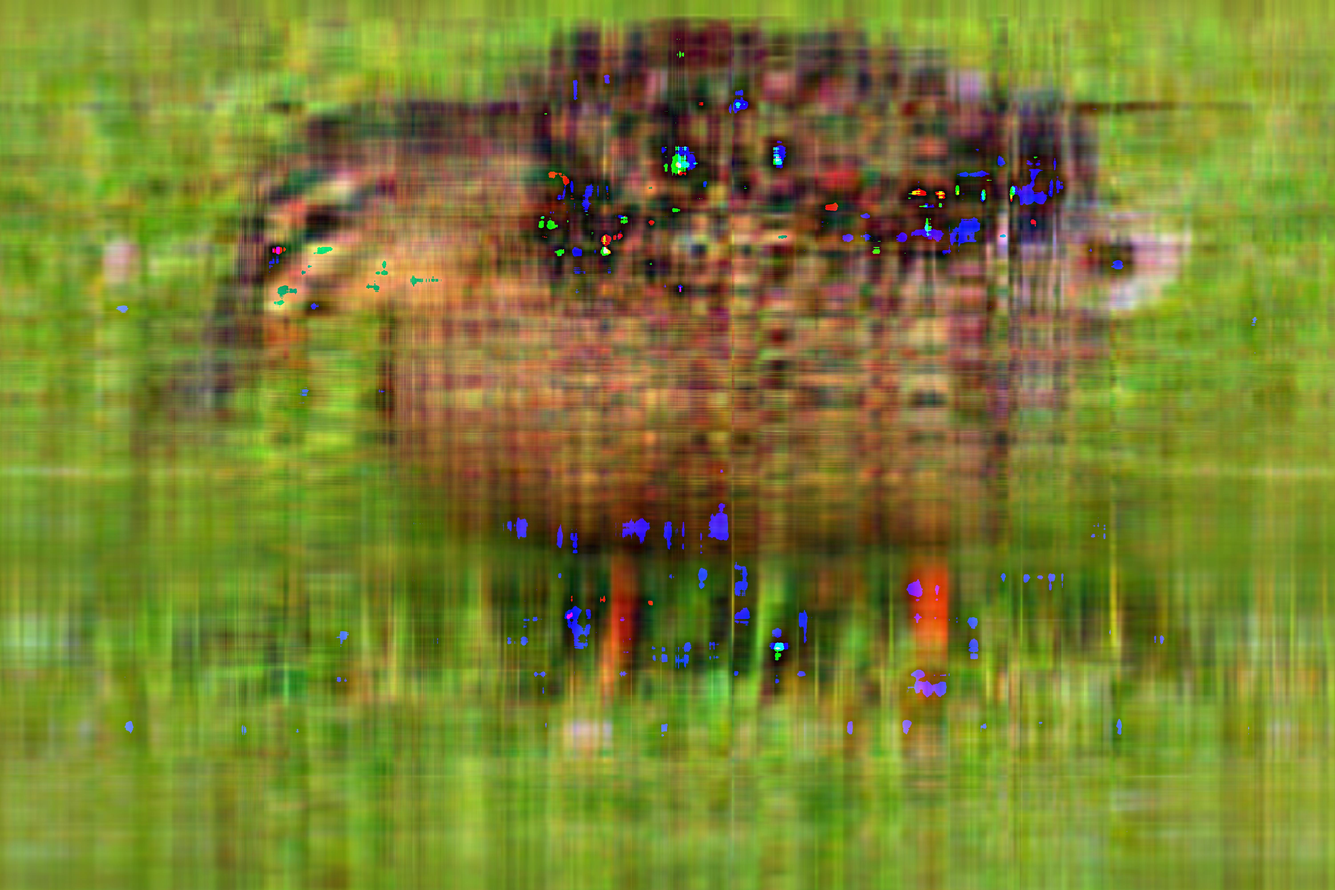
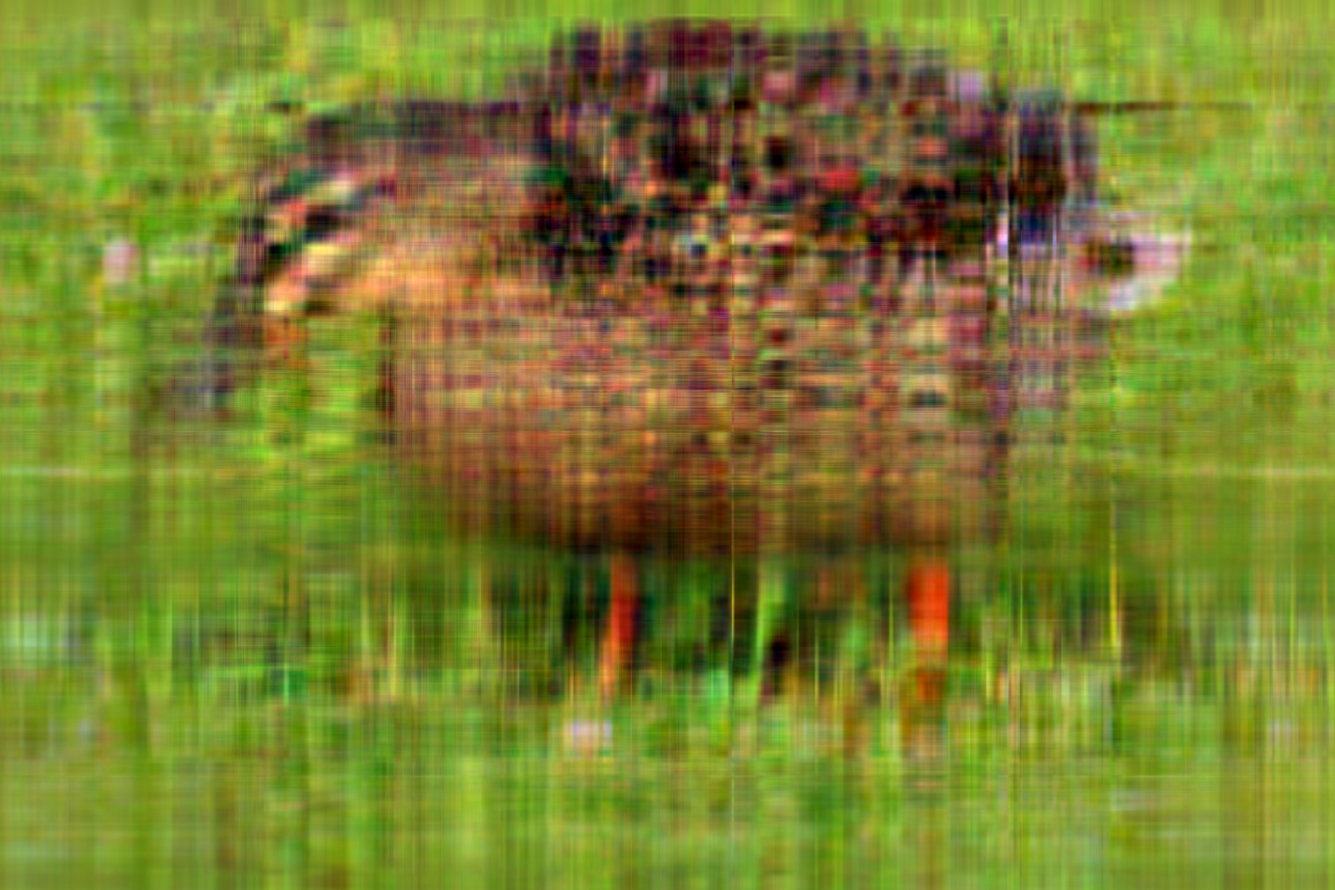
Correção na Compressão de Imagens

diff --git a/aplicacoes/svd.md b/aplicacoes/svd.md
@@ -9,7 +9,7 @@ Um dos principais exemplos de como matrizes podem ser aplicadas no meio computac
 
 Um *pixel* é a unidade fundamental que compõe uma imagem, ele é basicamente uma cor sólida. A composição de milhares de pixels (por exemplo, uma imagem de resolução 800 x 600 contém $800\cdot 600=480000$ pixels) resulta na imagem como a enxergamos. A cor de um pixel é armazenada como um conjunto de números, que representam as escalas de cada espectro principal de cor e luz, que unidos formam a cor desejada - logo, na verdade uma imagem é uma matriz tridimensional, pois cada pixel que a compõe armazena mais de um valor. 
 
-O *RGB* é um dos sistemas de cores mais conhecidos e utilizados, cuja sigla vem do inglês *Red* (Vermelho), *Green* (Verde) e *Blue* (Azul), uma vez que todas as outras cores (ou pelo menos a maioria) podem ser obtidas através da adição dessas três. Se pensarmos na representação matricial de uma imagem de resolução $m\times n$ no formato RGB, o que teremos serão 3 matrizes de dimensão $m\times n$, uma para cada uma das cores base.
+O *RGB* é um dos sistemas de cores mais conhecidos e utilizados, cuja sigla vem do inglês *Red* (Vermelho), *Green* (Verde) e *Blue* (Azul), uma vez que todas as outras cores (ou pelo menos a maioria) podem ser obtidas através da adição dessas três. No padrão RGB, cada pixel contém valores entre 0 e 255 para cada uma das três cores base, representando as suas respectivas intensidades. Por exemplo, um pixel contendo os valores (255, 0, 0) - para vermelho, verde e azul, respectivamente - terá cor vermelha sólida, enquanto um com (255, 255, 0) terá cor amarela (vermelho mais verde), (0, 0, 0) terá cor preta e (255, 255, 255) terá cor branca. Então, na representação matricial de uma imagem de resolução $m\times n$ no formato RGB, o que teremos serão 3 matrizes de dimensão $m\times n$, uma para cada uma das cores base, com as entradas variando de 0 a 255.
 
 Como vimos no [Teorema de Eckart-Young](#teo-eckart-young), é possível aproximar uma matriz por outra de mesma dimensão e posto menor, descartando (anulando) os valores singulares de índice maior ao do posto escolhido, na sua decomposição SVD. Então, quais seriam os efeitos de aplicar essa técnica às matrizes RGB de uma imagem? Acontece que, na verdade, esse é um método de *compressão de imagens* válido, que é aplicado em algumas situações no meio digital.
 
@@ -68,7 +68,12 @@ R_approx = Ukr @ np.diag(Skr) @ Vtkr
 G_approx = Ukg @ np.diag(Skg) @ Vtkg
 B_approx = Ukb @ np.diag(Skb) @ Vtkb
 
-# 3. Reconstrói a imagem a partir das novas matrizes RGB 
+# Garante que as entradas das novas matrizes estejam entre 0 e 255 
+R_approx = np.clip(R_approx, 0, 255).astype(np.uint8)
+G_approx = np.clip(G_approx, 0, 255).astype(np.uint8)
+B_approx = np.clip(B_approx, 0, 255).astype(np.uint8)
+
+# Reconstrói a imagem a partir das novas matrizes RGB 
 imagem_reconstruida = np.stack((R_approx, G_approx, B_approx), axis=-1).astype(np.uint8)
 Image.fromarray(imagem_reconstruida).save("reconstruida.jpg")
 
@@ -85,6 +90,8 @@ A separação das matrizes RGB e o truncamento são realizados aproveitando-se d
 Esse processo de truncamento é equivalente a considerar os valores singulares de índice maior que $k$ na matriz $\Sigma$ iguais a zero, conforme descrito na [definição da matriz $A_{k}$](#def-matrizak-eckart-young) e no [Teorema de Eckart-Young](#teo-eckart-young).
 
 Logo, as matrizes RGB aproximadas, obtidas nos produtos entre suas respectivas matrizes SVD truncadas (realizado no python com o operador "@", de produto matricial. O método *np.diag* é utilizado para transformar o vetor truncado Sk na matriz diagonal truncada $\Sigma_{k}$), preservam a dimensão de $m\times n$ das matrizes originais ($m\times k\times k\times k\times k \times n=m\times n$). Isso implica que a imagem final comprimida terá resolução (dimensão) igual a da imagem original, logo, o processo realiza uma **redução de complexidade** da imagem, e não uma redução de resolução (este último que é comum em outros métodos que visam reduzir o tamanho de uma imagem).
+
+O uso da função *np.clip*, nas linhas 38-40, é importante para garantir que as entradas das matrizes resultantes dos produtos estejam no intervalo permitido pelo padrão RGB, entre 0 e 255. A função substitui por 0 entradas com valor abaixo de 0, assim como por 255 entradas acima de 255, preservando as que estão dentro do intervalo. A presença de entradas fora desse intervalo resultaria em pixels "defeituosos" no resultado final, com cores destoantes da imagem original.
 
 ### Testes e resultados
 
@@ -113,27 +120,27 @@ Imagem comprimida com $k$ = 10. Tamanho: 1,2MB (Compressão de 83,78%).
 :::{figure} 50.jpg
 :align: center
 
-Imagem comprimida com $k$ = 50. Tamanho: 2,2MB (Compressão de 70,27%).
+Imagem comprimida com $k$ = 50. Tamanho: 1,8MB (Compressão de 75,67%).
 :::
 
 :::{figure} 150.jpg
 :align: center
 
-Imagem comprimida com $k$ = 150. Tamanho: 3,1MB (Compressão de 58,10%).
+Imagem comprimida com $k$ = 150. Tamanho: 2,4MB (Compressão de 67,56%).
 :::
 
 :::{figure} 500.jpg
 :align: center
 
-Imagem comprimida com $k$ = 500. Tamanho: 3,8MB (Compressão de 48,64%).
+Imagem comprimida com $k$ = 500. Tamanho: 2,8MB (Compressão de 62,16%).
 :::
 
 :::{figure} 1000.jpg
 :align: center
 
-Imagem comprimida com $k$ = 1000. Tamanho: 3,8MB (Compressão de 48,64%).
+Imagem comprimida com $k$ = 1000. Tamanho: 3,0MB (Compressão de 59,45%).
 :::
 
-Note como de $k$ = 10 para $k$ = 50 a imagem se torna completamente distinguível, apesar da presença dos artefatos gráficos (as manchas coloridas). Como mencionado no início do tópico, para aplicações em áreas como *Visão Computacional* esse tipo de compressão é bastante vantajoso, veja como nesse caso tivemos uma compressão de mais de 70%, preservando consideravelmente a estrutura e os detalhes principais da imagem.
+Note como de $k$ = 10 para $k$ = 50 a imagem se torna completamente distinguível. Como mencionado no início do tópico, para aplicações em áreas como *Visão Computacional* esse tipo de compressão é bastante vantajoso, veja como no caso $k$ = 50 tivemos uma compressão de mais de 75%, preservando consideravelmente a estrutura e os detalhes principais da imagem.
 
-O mais interessante é que a partir de $k$ = 500 o percentual de compressão parece chegar a um piso de 58,10% (note como é o mesmo para $k$ = 1000), havendo um ganho razoável na nitidez da imagem sem um aumento significativo do tamanho. Na imagem comprimida com $k$ = 1000 ainda é possível observar pequenos artefatos (principalmente nas zonas de cores mais escuras), mas é uma aproximação bastante decente, considerando que obtivemos uma compressão de quase 50% do tamanho original.
+O mais interessante é que a partir de $k$ = 500, a imagem já parece quase idêntica a original (ao menos a olho nu), com $k$ = 1000 apenas aumentando a nitidez de alguns detalhes (abrindo as imagens em tela cheia é possível perceber melhor). Ao final, temos uma imagem extremamente próxima a original, com o tamanho reduzido em quase 60%. 

diff --git a/fundamentos/matrizes.md b/fundamentos/matrizes.md
@@ -404,6 +404,12 @@ $$
 
 :::
 
+### Posto
+
+Além do determinante, outra característica importante de uma matriz é o seu posto. Diferentemente do determinante, toda matriz possui um posto bem definido, seja ela quadrada ou não.
+
+...
+
 ### Notações úteis
 
-#TODO#
+...

diff --git a/topicos/valores-singulares.md b/topicos/valores-singulares.md
@@ -429,4 +429,4 @@ $$
 
 :::
 
-O tópico [](../aplicacoes/svd.md) mostra como essa ideia de aproximação de matrizes é aplicada.
+O tópico [](../aplicacoes/svd.md) mostra como essa ideia de aproximação de matrizes pode ser aplicada.
